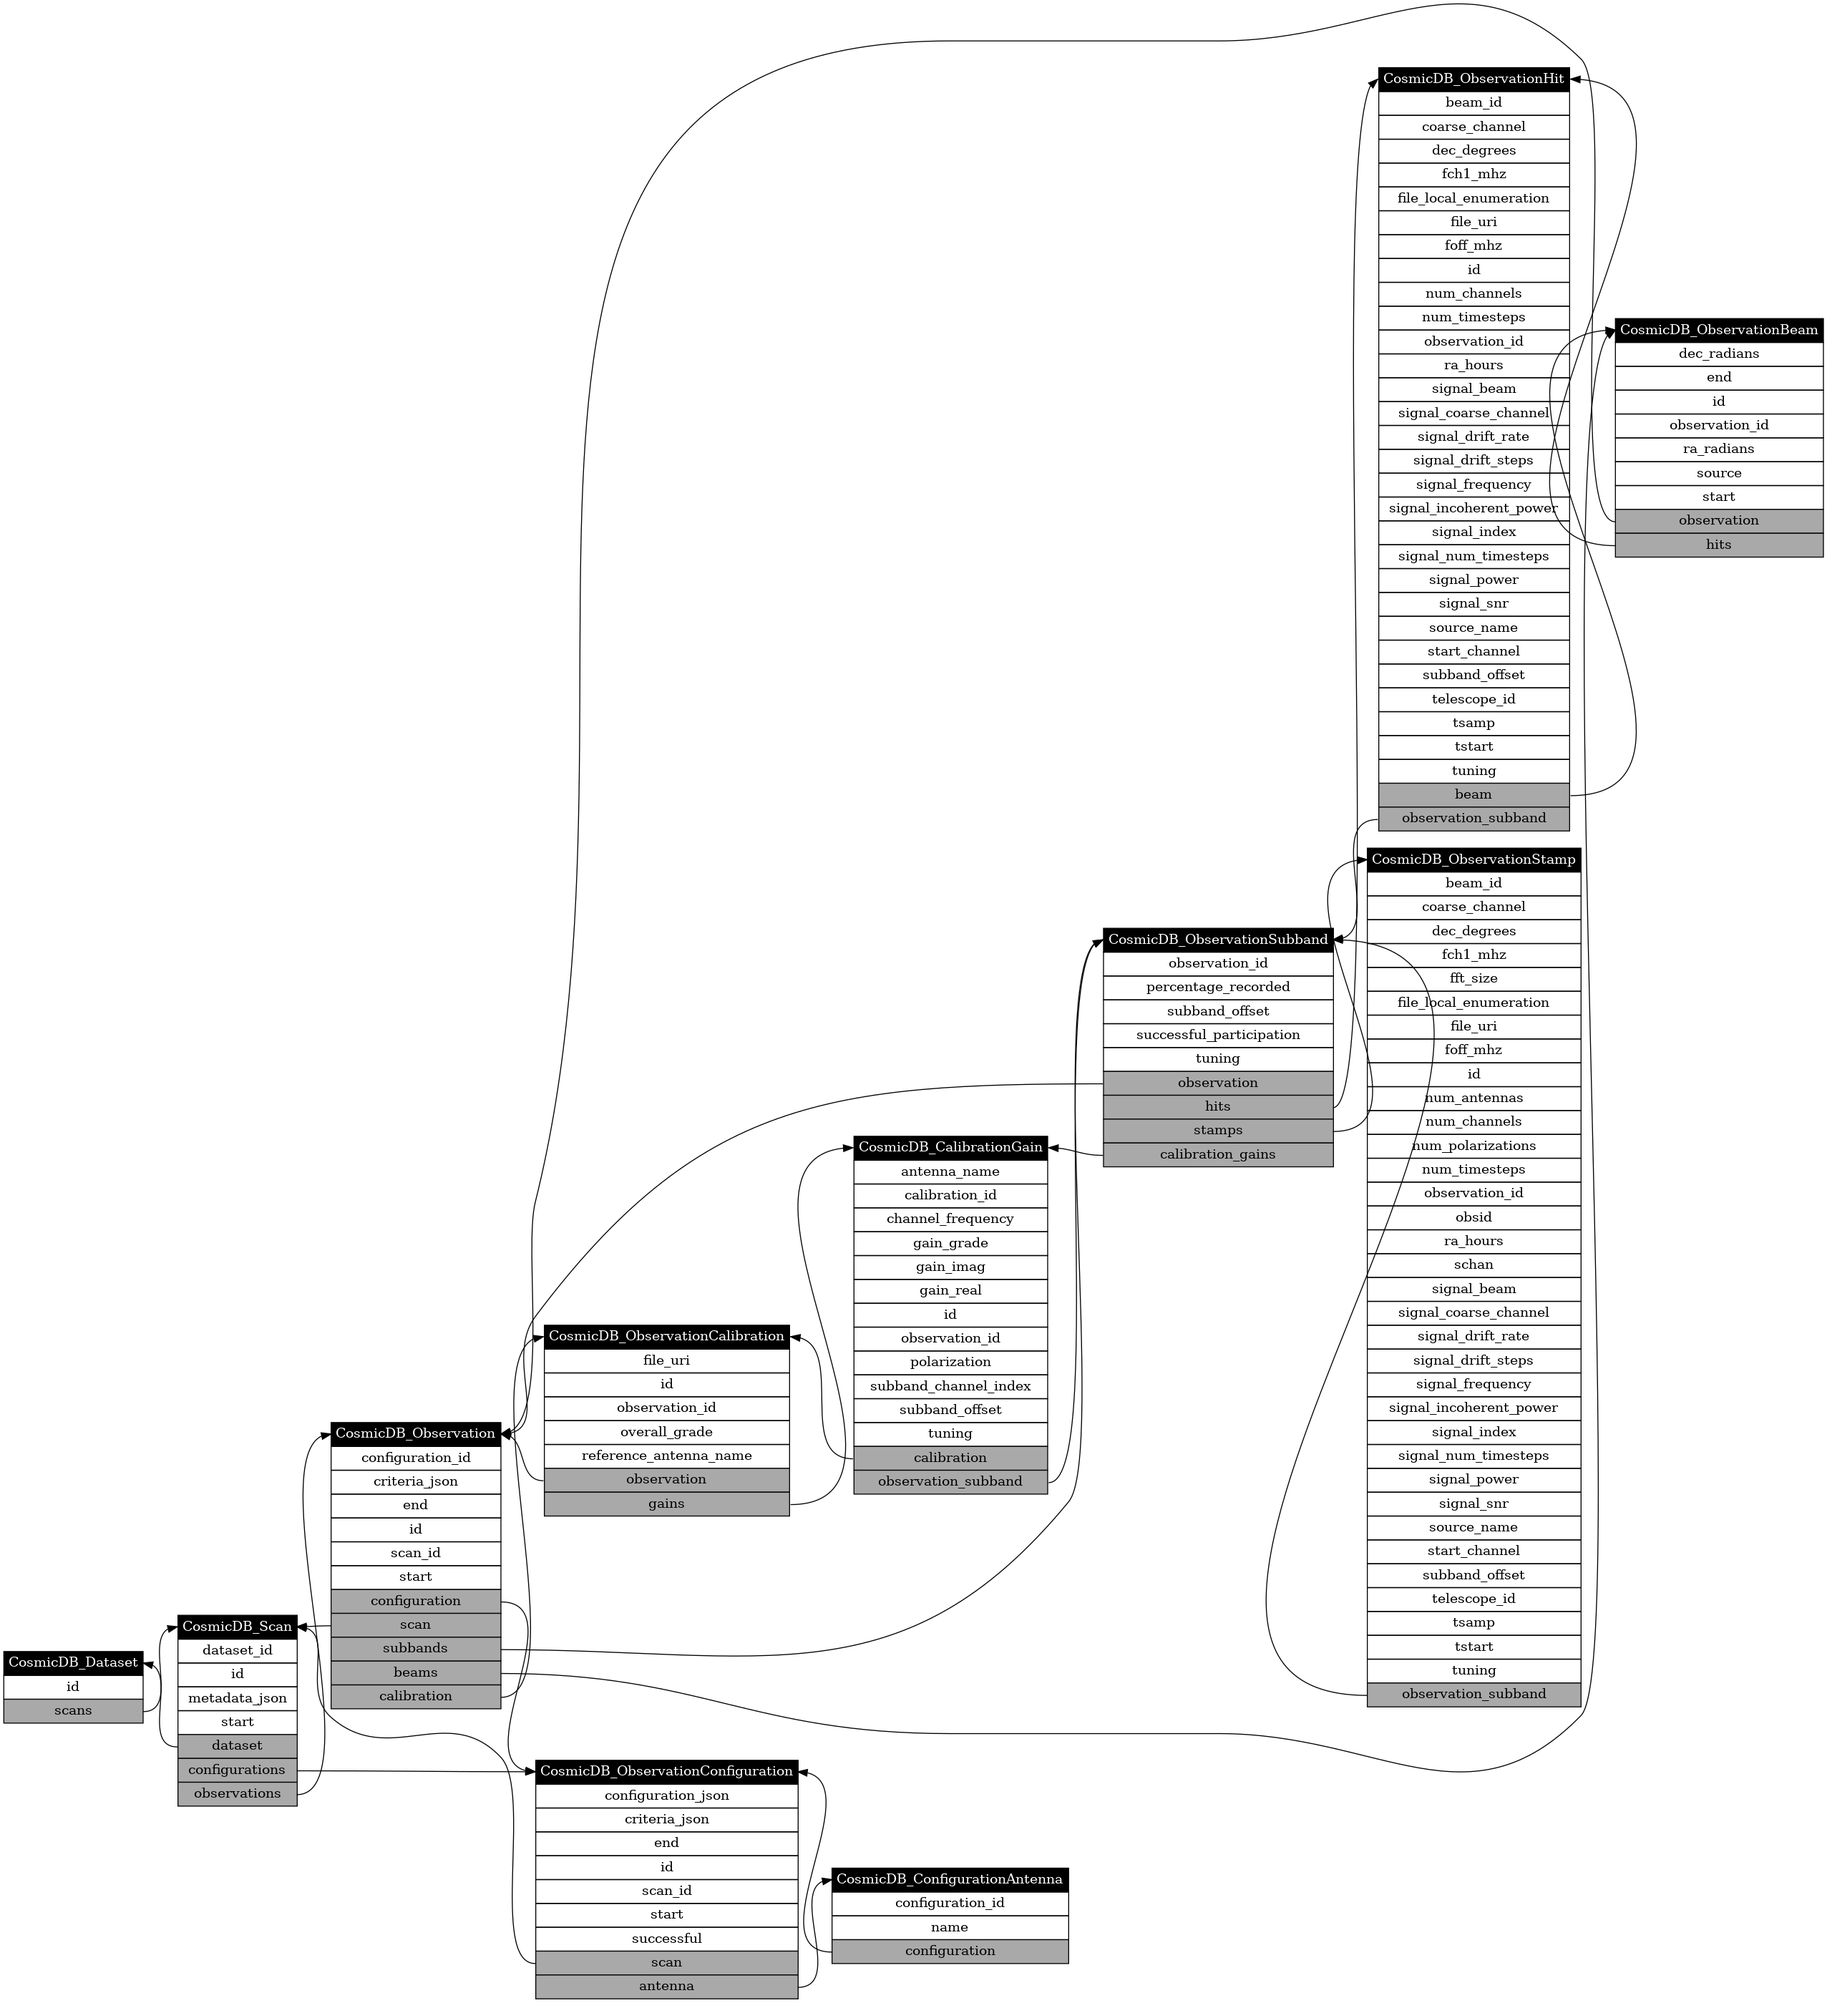
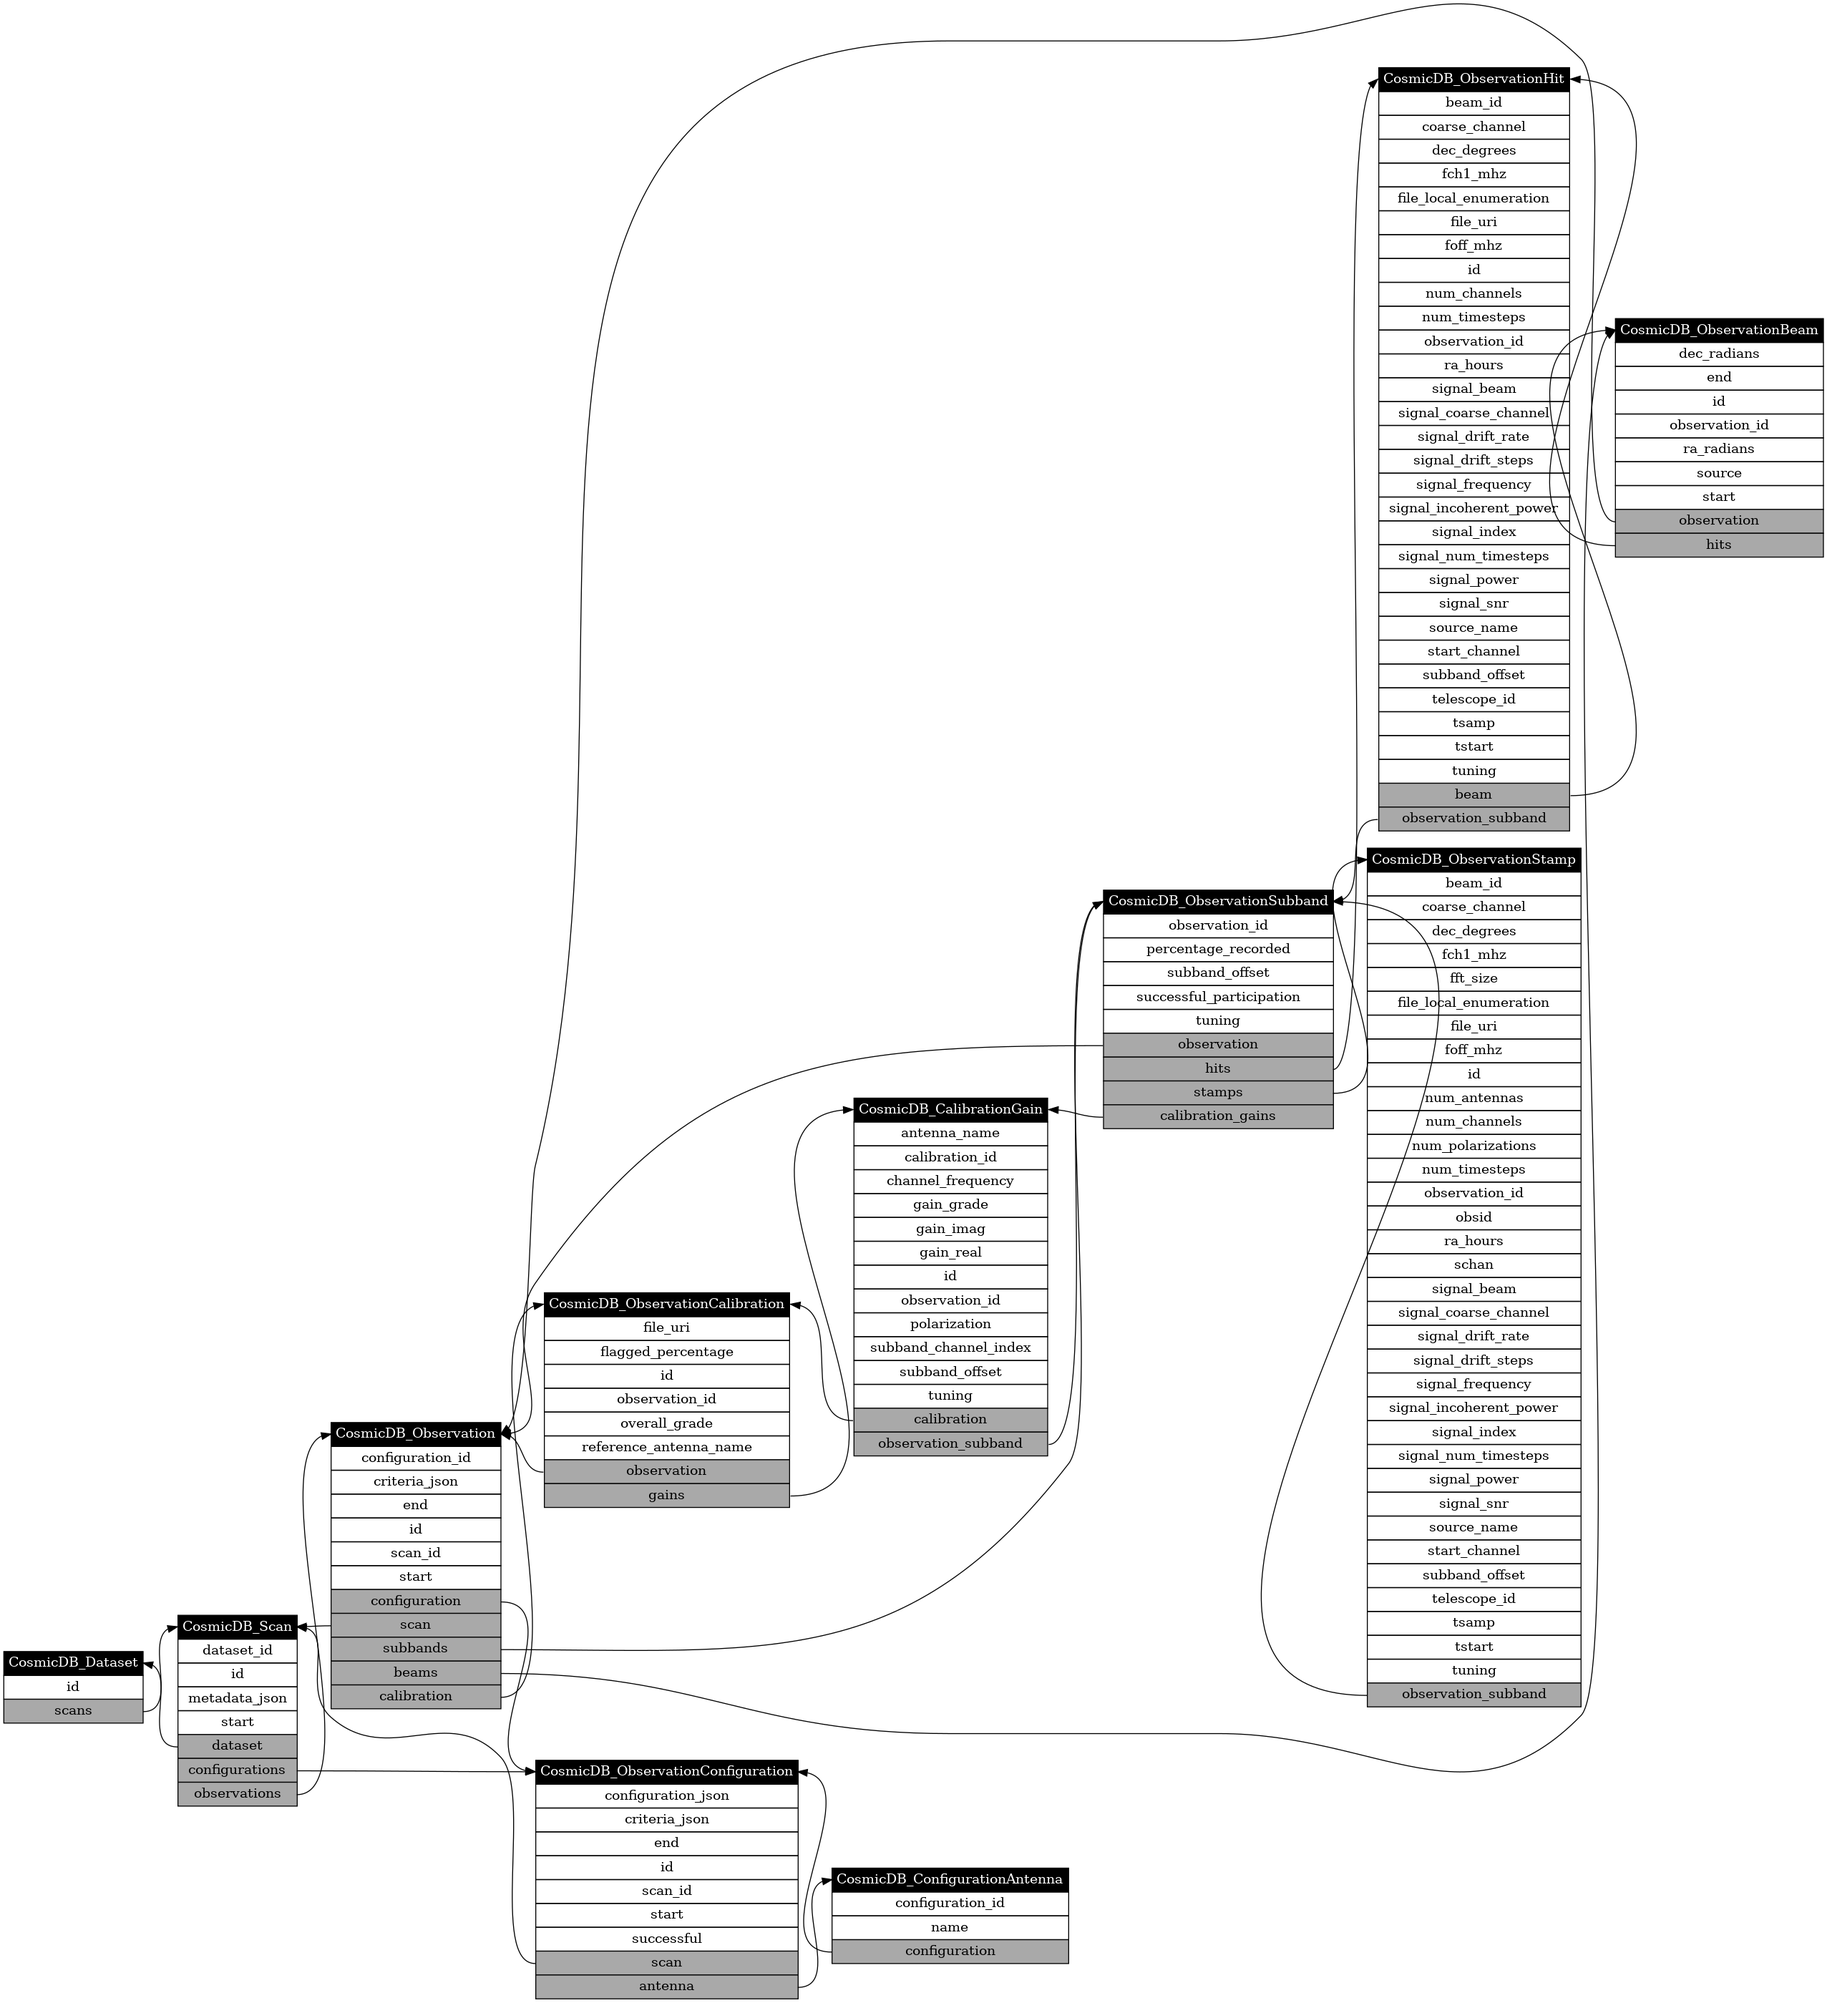
+ Calibration entity flagged_percentage field

Changed region(s): [[0.2785, 0.4352, 0.7427, 0.7771]]

diff --git a/src/cosmic_database/entities.py b/src/cosmic_database/entities.py
@@ -185,6 +185,7 @@ class CosmicDB_ObservationCalibration(Base):
     observation_id: Mapped[int] = mapped_column(ForeignKey(f"cosmic_observation{TABLE_SUFFIX}.id"))
 
     reference_antenna_name: Mapped[String_AntennaName]
+    flagged_percentage: Mapped[float]
     overall_grade: Mapped[float]
     file_uri: Mapped[String_URI]
 

diff --git a/docs/tables.md b/docs/tables.md
@@ -74,6 +74,7 @@ Column | Type | Primary Key | Foreign Key(s) | Nullable
 id | INTEGER | X |  | 
 observation_id | INTEGER |  | [cosmic_observation](#table-cosmic_observation).id | 
 reference_antenna_name | VARCHAR(4) |  |  | 
+flagged_percentage | DOUBLE |  |  | 
 overall_grade | DOUBLE |  |  | 
 file_uri | VARCHAR(255) |  |  | 
 

diff --git a/docs/classes.md b/docs/classes.md
@@ -84,6 +84,7 @@ Table [`cosmic_observation_calibration`](./tables.md#table-cosmic_observation_ca
 Attribute | Type
 -|-
 file_uri | `str`
+flagged_percentage | `float`
 id | `int`
 observation_id | `int`
 overall_grade | `float`
